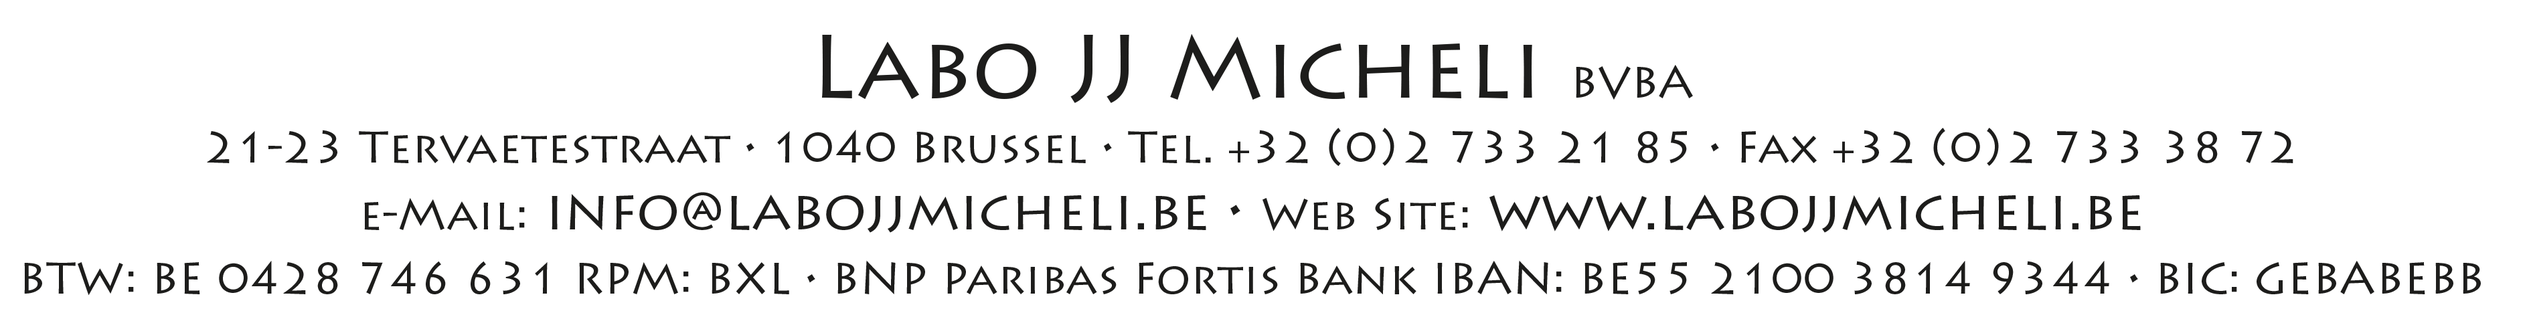
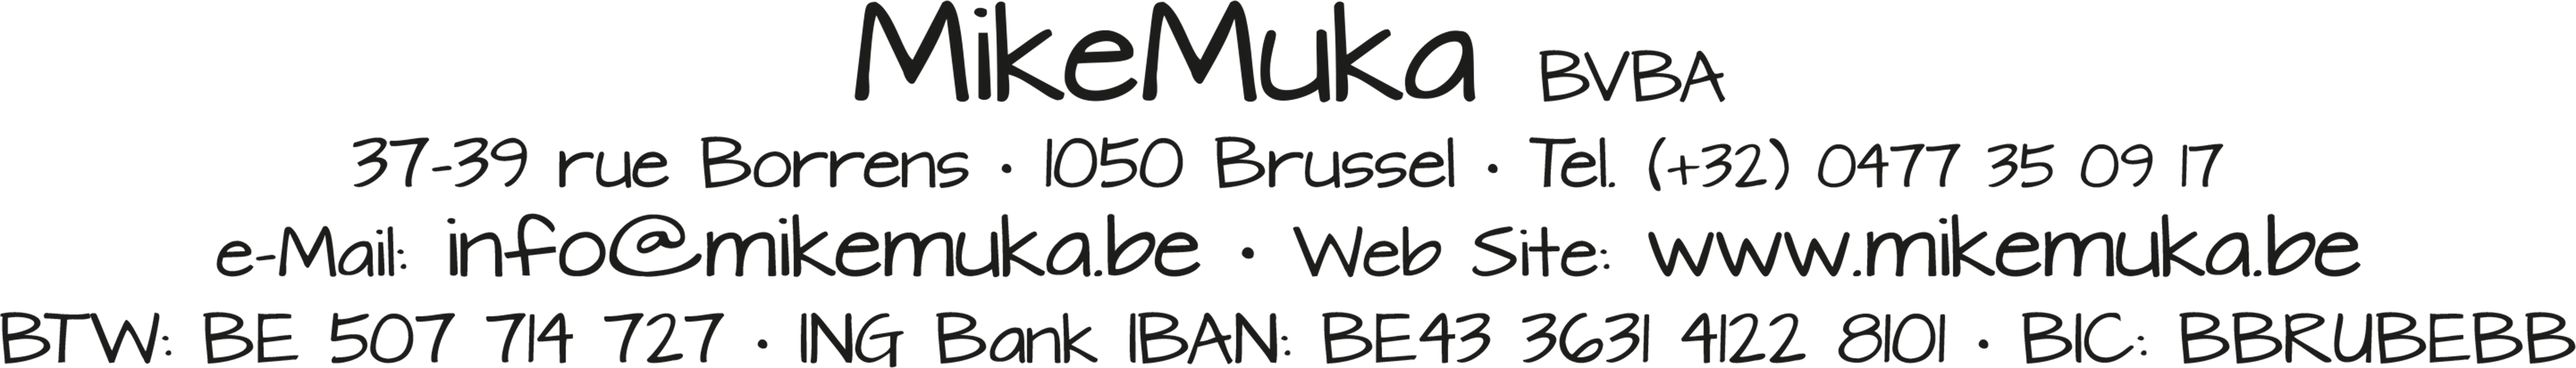
updated for piezophoto articles

diff --git a/assets/js/item.js b/assets/js/item.js
@@ -146,6 +146,31 @@ function setItem(id, vat, name, category) {
 		$('#select2-chosen-1').html(name);
 }
 
+function setSizes(item) {
+  var match = item.libelle_long.match(/(\d+(x|×)\d+)/);
+  var sizes = [0,0];
+  if(match) {
+	sizes = match[1].split(match[2]);
+  }
+  $("#documentline-work_width_virgule").val(sizes[0]);
+  $("#documentline-work_width").val(sizes[0]);
+  $("#documentline-work_height_virgule").val(sizes[1]);
+  $("#documentline-work_height").val(sizes[1]);
+
+  $("#documentline-work_width").trigger('change');
+
+  console.log("setSizes: prices updated", item, match, sizes);
+}
+
+function updateMainItem(tirage) {
+	var curItem = needHandling();
+	console.log('updateMainItem', tirage, curItem);
+	if(!curItem || curItem.yii_category == "Tirage") { // set it
+		setItem(tirage.id, tirage.taux_de_tva, tirage.libelle_long, tirage.yii_category);
+		console.log('updateMainItem: updated');
+	}
+}
+
 /** Item dimensions. Raise error if not available */
 function getDimensions() {
 	needToFit = isChromaLuxe(); // ($("#documentline-item_id").val() == store_values.chroma);
@@ -558,6 +583,10 @@ $("#documentlinedetail-tirage_id:enabled, #documentlinedetail-tirage_id:disabled
 	// if it changed, need to change item_id as well
 	setItem(item.id, item.taux_de_tva, item.libelle_long, item.yii_category);
 
+	var tirage = getItemById(item_id, true)
+	setSizes(tirage);
+	updateMainItem(tirage);
+
 	// enable or disable options depending on paper type
 	paper_type = item.fournisseur;
 	//console.log('Paper type: '+paper_type);
@@ -766,6 +795,7 @@ function free_item_update() {
  */
 /** if user selects item with dpecial id, trigger tab opening */
 $("#documentline-item_id").change(function() {
+
 	$("ItemChromaLuxe").prop('disabled', true);
 	$("ItemTirage").prop('disabled', true);
 	$("ItemCanvas").prop('disabled', true);
@@ -788,6 +818,8 @@ $("#documentline-item_id").change(function() {
 		$('.document-line-options').toggle(false);
 		return;
 	}
+
+	var sizes = setSizes(item);
 
 	var yii_category = item.yii_category;
 

diff --git a/messages/fr/print.php b/messages/fr/print.php
@@ -122,13 +122,13 @@ return [
 	'VAT excl.' => 'HTVA',
 	'VAT incl.' => 'TVAC',
 	'Number' => 'Numéro',
-	'General Sales Conditions on our Website at www.labojjmicheli.be/fr/conditions' => 'Conditions générales de ventes sur notre site www.labojjmicheli.be/fr/conditions',
+	'General Sales Conditions on our Website at www.mikemuka.be/contact/conditions-dutilisation' => 'Conditions générales de ventes sur notre site www.mikemuka.be/contact/conditions-dutilisation',
 	
 	
 	
 	
 	/** Footer */
-	'Labo JJ Micheli SPRL • 21-23 rue de Tervaete • 1040 Brussels<br>Tél. +32 (0)2 733 21 85 • Fax. +32 (0)2 733 38 72<br>e-Mail: info@labojjmicheli.be • Web Site: www.labojjmicheli.be • VAT: BE 0428 746 631 RPM: BXL<br>BNP Paribas Fortis Bank 210-0381493-44 • IBAN: BE55 2100 3814 9344 • BIC: GEBABEBB' => 'Labo JJ Micheli SPRL • 21-23 rue de Tervaete • 1040 Bruxelles<br>Tél. +32 (0)2 733 21 85 • Fax. +32 (0)2 733 38 72<br>e-Mail: info@labojjmicheli.be • Site Web: www.labojjmicheli.be • TVA: BE 0428 746 631 RPM: BXL<br>Banque BNP Paribas Fortis 210-0381493-44 • IBAN: BE55 2100 3814 9344 • BIC: GEBABEBB',
+	'MIKEMUKA SPRL • 37-39 rue Borrens • 1050 Brussels<br>Tél. (+32) 0477 35 09 17<br>e-Mail: info@mikemuka.be • Web Site: www.mikemuka.be • VAT: BE 507 714 727<br>ING Bank  IBAN: BE43 3631 4122 8101 • BIC: BBRUBEBB' => 'MIKEMUKA SPRL • 37-39 rue Borrens • 1050 Bruxelles<br>Tél. (+32) 0477 35 09 17<br>e-Mail: info@mikemuka.be • Site Web: www.mikemuka.be • TVA: BE 507 714 727<br>Banque ING IBAN: BE43 3631 4122 8101 • BIC: BBRUBEBB',
 
 
 	/** Mails */

diff --git a/messages/nl/print.php b/messages/nl/print.php
@@ -121,10 +121,10 @@ return [
 	'Vat' => 'BTW',
 	'Rate' => '% BTW',
 	'Page' => 'Pagina',
-	'General Sales Conditions on our Website at www.labojjmicheli.be/fr/conditions' => 'Algemene verkoopvoorwaarden op onze website www.labojjmicheli.be/fr/conditions',
+	'General Sales Conditions on our Website at www.mikemuka.be/contact/conditions-dutilisation' => 'Algemene verkoopvoorwaarden op onze website www.mikemuka.be/contact/conditions-dutilisation',
 	
 	/** Footer */
-	'Labo JJ Micheli SPRL • 21-23 rue de Tervaete • 1040 Brussels<br>Tél. +32 (0)2 733 21 85 • Fax. +32 (0)2 733 38 72<br>e-Mail: info@labojjmicheli.be • Web Site: www.labojjmicheli.be • VAT: BE 0428 746 631 RPM: BXL<br>BNP Paribas Fortis Bank 210-0381493-44 • IBAN: BE55 2100 3814 9344 • BIC: GEBABEBB' => 'Labo JJ Micheli SPRL • 21-23 Tervaetestraat • 1040 Brussel<br>Tel. +32 (0)2 733 21 85 • Fax. +32 (0)2 733 38 72<br>e-Mail: info@labojjmicheli.be • Web Site: www.labojjmicheli.be • BTW: BE 0428 746 631 RPM: BXL<br>BNP Paribas Fortis Bank 210-0381493-44 • IBAN: BE55 2100 3814 9344 • BIC: GEBABEBB',
+	'MIKEMUKA SPRL • 37-39 rue Borrens • 1050 Brussels<br>Tél. (+32) 0477 35 09 17<br>e-Mail: info@mikemuka.be • Web Site: www.mikemuka.be • VAT: BE 507 714 727<br>ING Bank  IBAN: BE43 3631 4122 8101 • BIC: BBRUBEBB' => 'MIKEMUKA SPRL • 21-23 Tervaetestraat • 1050 Brussel<br>Tel. (+32) 0477 35 09 17<br>e-Mail: info@mikemuka.be • Web Site: www.mikemuka.be • BTW: BE 507 714 727<br>ING Bank  IBAN: BE43 3631 4122 8101 • BIC: BBRUBEBB',
 
 
 	/** Mails */

diff --git a/modules/accnt/views/bill/_print_footer.php b/modules/accnt/views/bill/_print_footer.php
@@ -5,14 +5,14 @@
 <hr>
 <div class="account-print-page-footer" style="text-align: center; font-size: 9px;">
 <?php if($model->lang == 'nl'): ?>
-	Labo JJ Micheli SPRL • 21-23 Tervaetestraat • 1040 Brussel<br>
-	Tel. +32 (0)2 733 21 85 • Fax. +32 (0)2 733 38 72<br>
-	e-Mail: info@labojjmicheli.be • Web Site: www.labojjmicheli.be • BTW: BE 0428 746 631 RPM: BXL<br>
-	BNP Paribas Fortis Bank 210-0381493-44 • IBAN: BE55 2100 3814 9344 • BIC: GEBABEBB
+	MIKEMUKA SPRL • 21-23 Tervaetestraat • 1050 Brussel<br>
+	Tel. (+32) 0477 35 09 17<br>
+	e-Mail: info@mikemuka.be • Web Site: www.mikemuka.be • BTW: BE 507 714 727<br>
+	ING Bank  IBAN: BE43 3631 4122 8101 • BIC: BBRUBEBB
 <?php else: ?>
-	Labo JJ Micheli SPRL • 21-23 rue de Tervaete • 1040 Bruxelles<br>
-	Tél. +32 (0)2 733 21 85 • Fax. +32 (0)2 733 38 72<br>
-	e-Mail: info@labojjmicheli.be • Site Web: www.labojjmicheli.be • TVA: BE 0428 746 631 RPM: BXL<br>
-	Banque BNP Paribas Fortis 210-0381493-44 • IBAN: BE55 2100 3814 9344 • BIC: GEBABEBB
+MIKEMUKA SPRL
+	Tél. (+32) 0477 35 09 17<br>
+	e-Mail: info@mikemuka.be • Site Web: www.mikemuka.be • TVA: BE 507 714 727<br>
+	Banque ING IBAN: BE43 3631 4122 8101 • BIC: BBRUBEBB
 <?php endif; ?>
 </div>

diff --git a/messages/fr/store.php b/messages/fr/store.php
@@ -706,7 +706,7 @@ return [
 	
 	
 	/** Footer */
-	'Labo JJ Micheli SPRL • 21-23 rue de Tervaete • 1040 Brussels<br>Tél. +32 (0)2 733 21 85 • Fax. +32 (0)2 733 38 72<br>e-Mail: info@labojjmicheli.be • Web Site: www.labojjmicheli.be • VAT: BE 0428 746 631 RPM: BXL<br>BNP Paribas Fortis Bank 210-0381493-44 • IBAN: BE55 2100 3814 9344 • BIC: GEBABEBB' => 'Labo JJ Micheli SPRL • 21-23 rue de Tervaete • 1040 Bruxelles<br>Tél. +32 (0)2 733 21 85 • Fax. +32 (0)2 733 38 72<br>e-Mail: info@labojjmicheli.be • Site Web: www.labojjmicheli.be • TVA: BE 0428 746 631 RPM: BXL<br>Banque BNP Paribas Fortis 210-0381493-44 • IBAN: BE55 2100 3814 9344 • BIC: GEBABEBB',
+	'MIKEMUKA SPRL • 37-39 rue Borrens • 1050 Brussels<br>Tél. (+32) 0477 35 09 17<br>e-Mail: info@mikemuka.be • Web Site: www.mikemuka.be • VAT: BE 507 714 727<br>ING Bank  IBAN: BE43 3631 4122 8101 • BIC: BBRUBEBB' => 'MIKEMUKA SPRL • 37-39 rue Borrens • 1050 Bruxelles<br>Tél. (+32) 0477 35 09 17<br>e-Mail: info@mikemuka.be • Site Web: www.mikemuka.be • TVA: BE 507 714 727<br>Banque ING IBAN: BE43 3631 4122 8101 • BIC: BBRUBEBB',
 
 
 	/** Mails */

diff --git a/mail/nl/order-completed.php b/mail/nl/order-completed.php
@@ -10,7 +10,7 @@ use yii\helpers\Html;
 
 <p>
 Niet reageren op dit bericht. Dit bericht is automatisch verzonden wanneer uw bestelling compleet is.
-U kunt altijd contact met ons opnemen op <a htref=mailto:commande@labojjmicheli.be>commande@labojjmicheli.be</a>, of per telefoon.
+U kunt altijd contact met ons opnemen op <a htref=mailto:commande@mikemuka.be>commande@mikemuka.be</a>, of per telefoon.
 </p>
 
 <hr />
@@ -19,12 +19,12 @@ U kunt altijd contact met ons opnemen op <a htref=mailto:commande@labojjmicheli.
 
 <p>Open maandag tot vrijdag, vanaf 9h00 tot 18h30.</p>
 
-<p>21-23 Tervaetestraat, 1040 Brussel<br/>
+<p>21-23 Tervaetestraat, 1050 Brussel<br/>
 
-Tel.: +32 (0)2 733 21 85<br/>
-eMail: info@labojjmicheli.be<br/>
-www.labojjmicheli.be</p>
+Tel.: (+32) 0477 35 09 17<br/>
+eMail: info@mikemuka.be<br/>
+www.mikemuka.be</p>
 
 <p>BNP Paribas Fortis<br/>
-IBAN: BE55 2100 3814 9344 - BIC: GEBABEBB<br/>
-TVA: BE 0428 746 631</p>
+IBAN: BE43 3631 4122 8101 - BIC: BBRUBEBB<br/>
+TVA: BE 507 714 727</p>

diff --git a/mail/fr/order-completed.php b/mail/fr/order-completed.php
@@ -10,21 +10,21 @@ use yii\helpers\Html;
 
 <p>
 Ne répondez pas à ce message. Ce message a été envoyé automatiquement lorsque votre commande est terminée.
-Vous pouvez toujours nous contacter à <a htref=mailto:commande@labojjmicheli.be>commande@labojjmicheli.be</a>, ou par téléphone.
+Vous pouvez toujours nous contacter à <a htref=mailto:commande@mikemuka.be>commande@mikemuka.be</a>, ou par téléphone.
 </p>
 
 <hr />
 
-<p>Labo JJ Micheli SPRL</p>
+<p>MIKEMUKA SPRL</p>
 
 <p>Ouvert du lundi au vendredi de 9h00 à 18h30, sans interruption.</p>
 
-<p>21-23 rue de Tervaete, 1040 Bruxelles<br/>
+<p>37-39 rue Borrens, 1050 Bruxelles<br/>
 
-Tél. +32 (0)2 733 21 85<br/>
-e-Mail: info@labojjmicheli.be<br/>
-www.labojjmicheli.be</p>
+Tél. (+32) 0477 35 09 17<br/>
+e-Mail: info@mikemuka.be<br/>
+www.mikemuka.be</p>
 
 <p>BNP Paribas Fortis<br/>
-IBAN: BE55 2100 3814 9344 - BIC: GEBABEBB<br/>
-TVA: BE 0428 746 631</p>
+IBAN: BE43 3631 4122 8101 - BIC: BBRUBEBB<br/>
+TVA: BE 507 714 727</p>

diff --git a/mail/en/order-completed.php b/mail/en/order-completed.php
@@ -10,7 +10,7 @@ use yii\helpers\Html;
 
 <p>
 This mail was sent automatically upon completion of your order. Please DO NOT reply to this mail.
-You can always contact us at <a htref=mailto:commande@labojjmicheli.be>commande@labojjmicheli.be</a>, or by phone.
+You can always contact us at <a htref=mailto:commande@mikemuka.be>commande@mikemuka.be</a>, or by phone.
 </p>
 
 <hr />
@@ -19,12 +19,12 @@ You can always contact us at <a htref=mailto:commande@labojjmicheli.be>commande@
 
 <p>Open Mondays to Fridays from 9h00 to 18h30.</p>
 
-<p>21-23 Tervaete Street, 1040 Brussels<br/>
+<p>rue Borrens 37-39, 1050 Brussels<br/>
 
-Phone: +32 (0)2 733 21 85<br/>
-eMail: info@labojjmicheli.be<br/>
-www.labojjmicheli.be</p>
+Phone: (+32) 0477 35 09 17<br/>
+eMail: info@mikemuka.be<br/>
+www.mikemuka.be</p>
 
-<p>BNP Paribas Fortis Bank<br/>
-IBAN: BE55 2100 3814 9344 - BIC: GEBABEBB<br/>
-TVA: BE 0428 746 631</p>
+<p>ING Bank<br/>
+IBAN: BE**** - BIC: ****<br/>
+TVA: BE 507 714 727

diff --git a/modules/order/views/document-line/_add.php b/modules/order/views/document-line/_add.php
@@ -63,8 +63,7 @@ $do_form = $form;
 			'columns' => 12,
 			'attributes' => [       // 2 column layout
 				'item_id' => [
-					'label' => Yii::t('store', 'Item').' <span class="label label-warning order-option" data-item_id="'.$chroma_item->id.'" data-item_name="'.$chroma_item->libelle_long.'" data-item-category="ChromaLuxe">ChromaLuxe</span>'
-													  .' <span class="label label-success order-option" data-item_id="'.$misc_item->id.'" data-item_name="'.$misc_item->libelle_long.'" data-item-category="Divers">Divers</span>',
+					'label' => Yii::t('store', 'Item').' <span class="label label-success order-option" data-item_id="'.$misc_item->id.'" data-item_name="'.$misc_item->libelle_long.'" data-item-category="Divers">Divers</span>',
 					'type' => Form::INPUT_WIDGET,
 					'widgetClass' => Select2::className(),
 		            'columnOptions' => ['colspan' => 6],

diff --git a/modules/store/prints/document/header.php b/modules/store/prints/document/header.php
@@ -1,12 +1,22 @@
 <?php
 use app\models\Document;
+use app\models\PdfDocument;
+
+use yii\helpers\Html;
 /* @var $this yii\web\View */
 /* @var $model app\models\Document */
+
+if(!isset($format))
+	$format = PdfDocument::FORMAT_A4;
+
+$w = ($format == PdfDocument::FORMAT_A4) ? 150 : floor(150/sqrt(2)) ;
+$h = ($format == PdfDocument::FORMAT_A4) ?  96 : floor( 96/sqrt(2)) ;
+
 ?>
 <div class="document-print-header">
 	<table width="100%">
 	<tr>
-			<td style="text-align: center;page-break-inside:avoid;"></td>
+			<td style="text-align: left;page-break-inside:avoid;"><?= Html::img('@app/assets/i/logo-bw.png', ['width' => $w, 'height' => $h]) ?></td>
 			<td width="40%" style='font-size: 1.1em;'><?= $this->render('../common/client', ['model' => $model->client]) ?></td>
 	</tr>
 	</table>

diff --git a/modules/store/prints/common/footer.php b/modules/store/prints/common/footer.php
@@ -26,7 +26,7 @@ $title = !isset($title) ? '' : $title.' — ';
 ?>
 <div style="text-align: center; font-size: <?= $fontSize ?>px; padding-bottom: 6px;">
 <p><?= Yii::t('print', $title).' '.Yii::t('print', 'Page').' ' ?>{PAGENO}/{nb}</p>
-<p style="font-size: <?= $fontSize - 1 ?>px;"><?= Yii::t('print', 'General Sales Conditions on our Website at www.labojjmicheli.be/fr/conditions') ?></p>
+<p style="font-size: <?= $fontSize - 1 ?>px;"><?= Yii::t('print', 'General Sales Conditions on our Website at www.mikemuka.be/contact/conditions-dutilisation') ?></p>
 </div>
 <div class="print-footer" style="text-align: center; border-top: 1px solid #888; padding: 2px;">
 	<?= Html::img('@app/assets/i/footer-'.$lang.'.png', ['width' => '80%']) ?>

diff --git a/modules/store/prints/common/header.php b/modules/store/prints/common/header.php
@@ -10,15 +10,7 @@
 use yii\helpers\Html;
 use app\models\PdfDocument;
 
-
-if(!isset($format))
-	$format = PdfDocument::FORMAT_A4;
-
-$w = ($format == PdfDocument::FORMAT_A4) ? 200 : floor(200/sqrt(2)) ;
-$h = ($format == PdfDocument::FORMAT_A4) ?  64 : floor( 64/sqrt(2)) ;
-
 ?>
 <div class="print-header">	
 	<?= Html::img('@app/assets/i/cl.png', ['width' => 1300]) ?>
-	<?= Html::img('@app/assets/i/logo-bw.png', ['width' => $w, 'height' => $h]) ?>
 </div>
